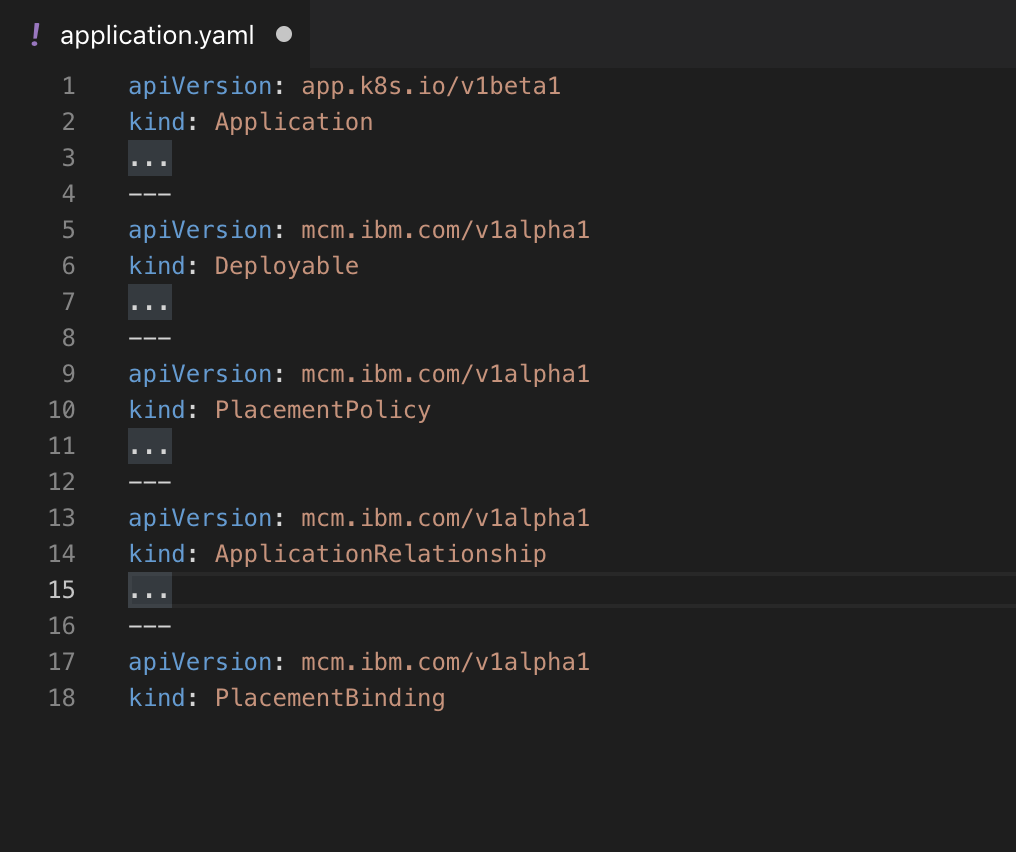
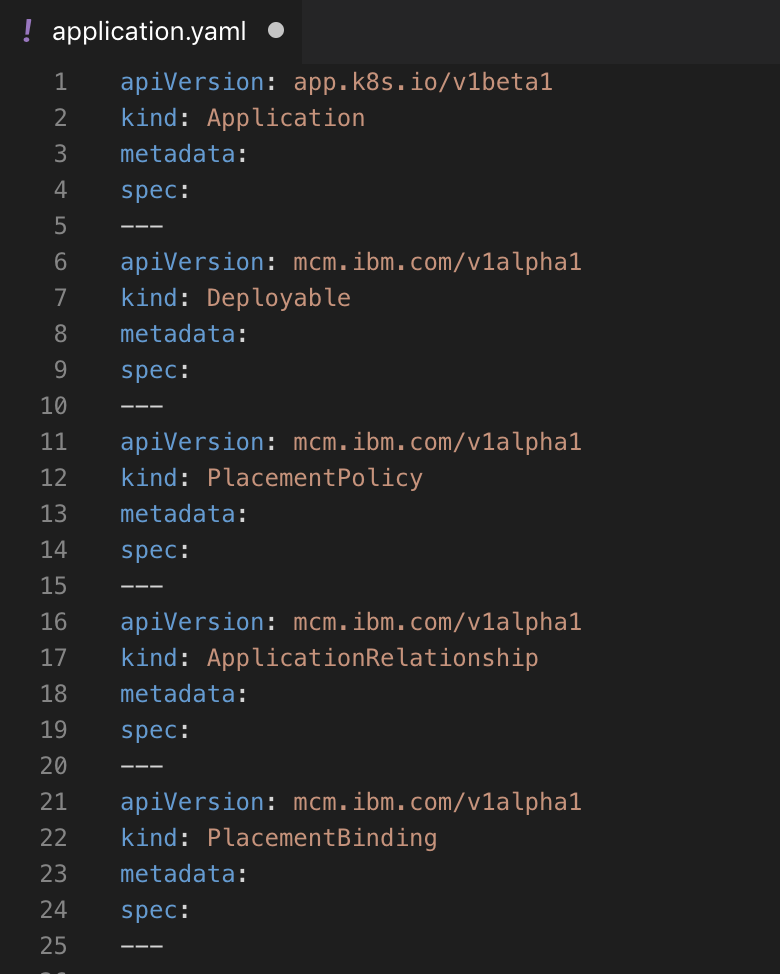
first draft of the completed blog

Changed region(s): [[0.0308, 0.0, 0.7385, 1.0], [0.6154, 0.7934, 0.7385, 0.8545], [0.3385, 0.0, 0.3692, 0.061]]

diff --git a/mcm-blog/docs/index.md b/mcm-blog/docs/index.md
@@ -1,27 +1,43 @@
-# How to develop and deploy an application using IBM MultiCloud Manager
+# How to create and deploy an application using IBM MultiCloud Manager
 
 
-This blog will discuss the step-by-step process of developing an application and deploying it to multiple clouds using IBM MultiCloud Manager.
-
-
+This blog will discuss the step-by-step process of creating an application and deploying it to multiple clouds using IBM MultiCloud Manager.
 
 
 ### Start with an existing application
 Start with a sample application on github
+
     git clone https://github.com/ibm-cloud/jpetstore-kubernetes
     cd jpetstore-kubernetes
 
-We want to containerize this application so it can run on the cloud. To do this, we build a docker image for this application and then push it to the container registry
+This sample perstore application consists of three parts - a `modernpets` and an `mssearch` component and a database.We want to containerize this application so it can run on the cloud. 
 
-    docker build
-    docker push
+To do this, we build a docker image for all components of this application and then push it to the container registry under your namespace. In our example, we are pushing it to our ICP image registry under the `default` namespace.
+
+    docker build . -t $(REGISTRY)/$(NAMESPACE)/jpetstoreweb
+    docker push $(REGISTRY)/$(NAMESPACE)/jpetstoreweb
+	cd jpetstore/db && docker build . -t $(REGISTRY)/$(NAMESPACE)/jpetstoredb
+	docker push $(REGISTRY)/$(NAMESPACE)/jpetstoredb
+    cd mmssearch && docker build . -t $(REGISTRY)/$(NAMESPACE)/mmssearch
+	docker push $(REGISTRY)/$(NAMESPACE)/mmssearch
 
 
- Next, we need to create Helm charts for this application and push it to the ICP catalog/github
+ Next, we need to create Helm charts for the components of this application:
+    
+    cd helm
+    helm package ./modernpets
+    helm package ./mmssearch
 
-    helm create
+This will create two files in `*.tgz` format. We now push these charts to a repository that is accessible to remote clusters. This location will be referenced in the `chartURL` parameter in the application.yaml file that we define later on. We will push our charts to github.com.
+
+`Please note:` You can also upload these charts to the local helm repository so that they show up in the catalog under `local-charts`.
+
+    cd helm && helm install --name jpetstore ./modernpets
+	cd helm && helm install --name mmssearch ./mmssearch
 
  ![blogPic1](./pics/blogPic1.png)
+
+ If using the local chart for your helm chart, you need to specify a section in the `application.yaml` to define this. See section **Defining local chart repo** below for more details on this.
 
 
 
@@ -33,7 +49,7 @@ A multi-cluster application uses the Kubernetes SIG Application CRD community s
 #### Start with creating an application.yaml file
 In any editor, create a file called application.yaml. We are going to populate it with the 5 components that are required to define an application in MCM - Application, Deployable, PlacementPolicy, ApplicationRelationship and PlacementBinding. 
 
-We start with an empty template like the one shown below:
+We start with an empty template like the one shown below and start filling each section:
 
 ![blogPic2](./pics/blogPic2.png)
 
@@ -44,19 +60,24 @@ Now we populate each section of this application.yaml for our app.
 
 **Labels**: The selector is used to match resources that belong to the Application. All of the applications resources should have labels such that they match this selector. Users should use theapp.kubernetes.io/name label on all components of the Application and set the selector to match this label. For instance, for our app, we are using {"matchLabels": [{"name": "jpetstore"}]} which will be used as the selector for this application, and each component should contain a label that matches this name.
 
-**ComponentKinds** : This array of GroupKinds is used to indicate the types of resources that the application is composed of. As an example an Application that has a service and a deployment would set this field to[{"group":"core","kind": "Service"},{"group":"apps","kind":"Deployment"}]
+**ComponentKinds** : This array of GroupKinds is used to indicate the types of resources that the application is composed of. Our sample application  has a PlacementPolicy, so we define would set this field to[{"group":"mcm.ibm.com/v1alpha1","kind": "PlacementPolicy"}]
 
 
 
+###Defining local chart repo
+If the helm charts for the application are uploaded to the local repo, then we need to include a secion in the `application.yaml` to define this as follows
 
+![blogPic22](./pics/blogPic22.png)
 
 
 ##### Define the section for Deployable. 
-A Deployable resource deploys your Helm chart.
+A Deployable resource deploys your Helm chart. Our app has two charts called `mssearch` and `modernpets`. This will create two separate Deployable resources so that MCM can deploy these two helm charts, based on the location specified in the `chartURL` parameter.
 
 ![blogPic4](./pics/blogPic4.png)
 
-Our app has two charts called `mssearch` and `modernpets`. This will create two separate Deployable resources so that MCM can deploy these two helm charts, based on the location specified in the `chartURL` parameter.
+`Please note:` If the charts are in the local repo defined in the previous section, then the 
+
+
 
 
 #### Define the PlacementPolicy. 
@@ -74,6 +95,9 @@ Our app has two charts called `mssearch` and `modernpets`. This will create two 
 
 
 #### Define the PlacementBinding
+**PlacementBinding** defines how to bind the PlacementPolicy rules to specific Deployables. So we define the PlacementBinding resource for each deployable and bind it with the correspinding PlacementPolicy as below:
+
+![blogPic16](./pics/blogPic16.png)
 
 
 Save this application.yaml file. 
@@ -81,6 +105,7 @@ Save this application.yaml file. 
 
 ## Creating an application in MCM
 We can create the application in MCM either via the CLI or using the UI. 
+
 Using CLI you simply have to do the following:
 
 
@@ -119,19 +144,28 @@ Let's see all the resources that have been created from our application definiti
 
 ## Edit the PlacementPolicy and see it take effect
 
-We can choose to edit the placementPolicy to say, to move one of the deployables to a different cluster. 
+We can choose to edit the placementPolicy to say, to move one of the deployables to a different cluster or change the number of `clusterReplicas`. 
 
 
+![blogPic18](./pics/blogPic18.png)
 
-![blogPic13](./pics/blogPic13.png)
-![blogPic14](./pics/blogPic14.png)
+We change the `clusterLabels` to `{matchLabels: [{name: icp}]}`. 
+![blogPic19](./pics/blogPic19.png)
 
 
 Hit `Submit` and you will see the changes take effect.
 
-![blogPic15](./pics/blogPic15.png)
+![blogPic21](./pics/blogPic21.png)
+
+As you can see, the `modernpets` deployable is now moved to the icp cluster. MCM uses other values, if specified in the yaml, like `resourceHint` or `compliance` to make a decision on which cluster to move the workload.
+
+MCM uses Weavescope to display the topology of the application created. 
+
+![blogPic20](./pics/blogPic20.png)
 
 
+##Conclusion
+So, in this tutorial, you saw how to create a simple `application.yaml` to create an MCM application and tell MCM where to get the helm charts from and where to deploy them. 
 
 
 
